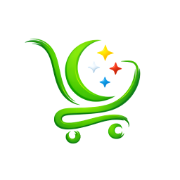
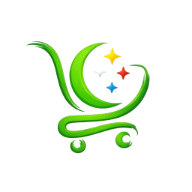
icones

diff --git a/src/app/layout.tsx b/src/app/layout.tsx
@@ -11,7 +11,7 @@ import { Suspense } from "react";
 export const metadata: Metadata = {
   metadataBase: new URL('https://comores-market.com'),
   
-  // AJOUT SEO : URL Canonique pour éviter les doublons aux yeux de Google
+  // URL Canonique pour le SEO Google
   alternates: {
     canonical: '/',
   },
@@ -36,7 +36,7 @@ export const metadata: Metadata = {
   
   appleWebApp: {
     capable: true,
-    // "black-translucent" permet à l'app de passer sous la barre d'état (Heure/Batterie)
+    // "black-translucent" permet à l'app de passer sous la barre d'état
     statusBarStyle: "black-translucent",
     title: "Comores Market",
   },
@@ -45,8 +45,11 @@ export const metadata: Metadata = {
     shortcut: '/favicon.ico',
     icon: [
       { url: '/favicon-32x32.png', sizes: '32x32', type: 'image/png' },
-      { url: '/logo.png', sizes: '192x192', type: 'image/png' },
+      // Icônes standards pour Android/Chrome
+      { url: '/icon-192x192.png', sizes: '192x192', type: 'image/png' },
+      { url: '/icon-512x512.png', sizes: '512x512', type: 'image/png' },
     ],
+    // Icône spécifique pour iOS (iPhone/iPad) - Doit être carrée non transparente
     apple: [
       { url: '/apple-touch-icon.png', sizes: '180x180', type: 'image/png' },
     ],
@@ -69,13 +72,12 @@ export default function RootLayout({
 }>) {
   return (
     <html lang="fr" suppressHydrationWarning>
-      {/* Fond gris foncé sur le body pour le mode PC */}
       <body className="font-sans min-h-dvh bg-gray-200 text-gray-900 antialiased overflow-y-auto">
         
         <NativeFeatures />
         <SplashScreen />
 
-        {/* CADRE MOBILE : Centré sur PC (max-w-120), Plein écran sur Mobile */}
+        {/* CADRE MOBILE : Centré sur PC, Plein écran sur Mobile */}
         <div className="relative w-full max-w-120 mx-auto min-h-dvh flex flex-col bg-[#F8FAFC] shadow-2xl shadow-black/10">
           
           <InstallBanner />
@@ -88,7 +90,6 @@ export default function RootLayout({
           <EliteAssistant />
 
           {/* DOCK DE NAVIGATION */}
-          {/* Fixé en bas, centré sur PC, ne dépasse pas la largeur du téléphone */}
           <div className="fixed bottom-0 z-50 left-1/2 -translate-x-1/2 w-full max-w-120 bg-[#F8FAFC] border-t border-gray-100">
               <Suspense fallback={<div className="h-16 w-full bg-[#F8FAFC]" />}>
                 <BottomNav />
